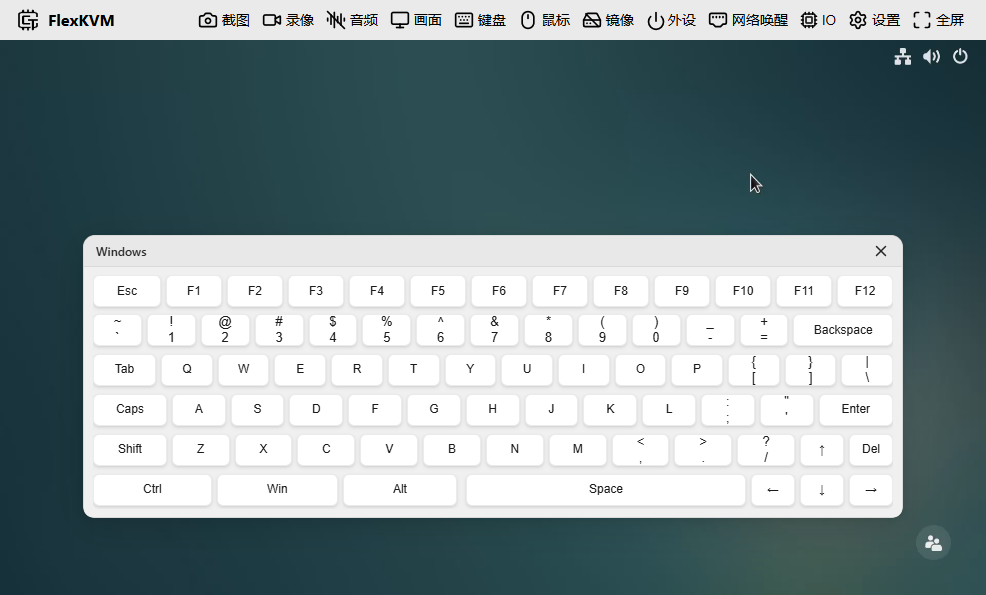
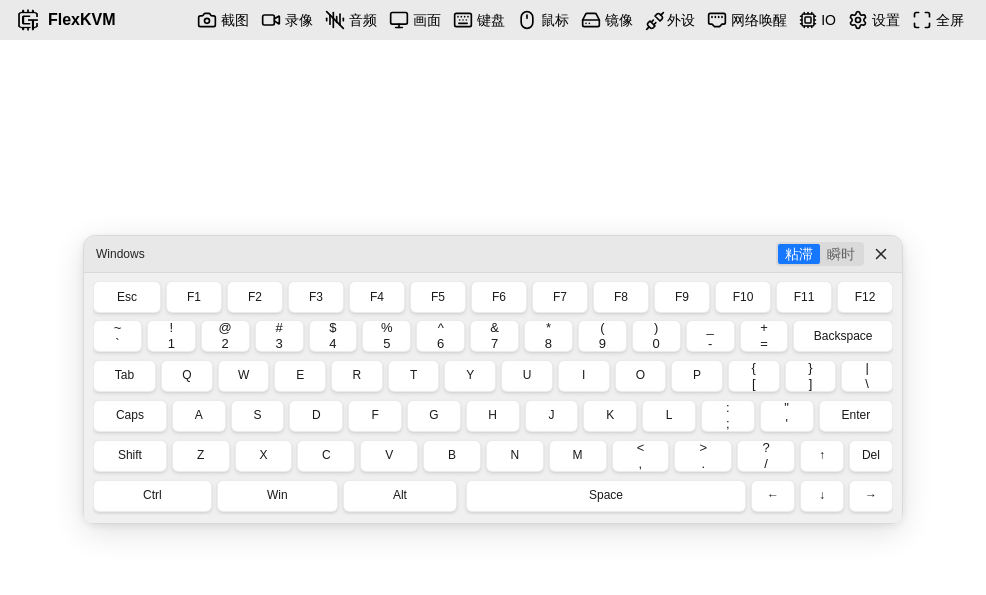
docs(remote): 虚拟键盘补修饰键粘滞/瞬时模式说明
v0.2.1 起修饰键不再固定为切换式，标题栏新增「粘滞 / 瞬时」分段控件：
粘滞保持原点一下锁定、再点一下松开；瞬时按住生效、松手释放。

原页只写「切换式」，用户在瞬时模式下找不到松手释放的说明，也无法
区分两种模式各适合什么场景，故改为对照表 + 各模式的用法说明。

配图同步换成含分段控件的实机截图（986x595，无损 WebP）。

diff --git a/Docs/docs/guide/remote/keyboard.en.md b/Docs/docs/guide/remote/keyboard.en.md
@@ -84,13 +84,24 @@ Opens a virtual keyboard overlay on the display — click with your mouse to typ
 
 ![Virtual keyboard](./images/keyboard/keyboard_float.webp)
 
-**Modifier keys** (Ctrl, Alt, Shift, Win) are toggle-style — click once to hold (turns dark), click again to release (turns light). Multiple modifiers can be held simultaneously.
+**Modifier keys** (Ctrl, Alt, Shift, Win) have two press modes, switched at the right of the title bar:
 
-Example: Click **Ctrl** (dark) → click **A** → sends Ctrl+A → Ctrl stays held for more combos → click **Ctrl** again (light, released).
+| Mode | Behavior | Best for |
+|------|----------|----------|
+| Sticky (default) | Click once to hold (turns dark), click again to release (turns light) | Touch screens; combos like Ctrl then C |
+| Momentary | Held while pressed, released on key-up like ordinary keys | Users used to a physical keyboard |
+
+Sticky mode holds multiple modifiers at once. Example: Click **Ctrl** (dark) → click **A** → sends Ctrl+A → Ctrl stays held for more combos → click **Ctrl** again (light, released).
+
+In Momentary mode, hold a modifier and click other keys; releasing the modifier releases it.
 
 **Regular keys**: Press to hold, release to let go.
 
+> Switching modes releases any held modifiers, so a latched Ctrl cannot leak into the other mode.
+
 > When closing the virtual keyboard or switching pages, all held keys are automatically released — no stuck keys.
+
+> The mode is stored in the browser, so it resets to Sticky in another browser or after clearing site data.
 
 ### Esc Mapping
 

diff --git a/Docs/docs/guide/remote/keyboard.md b/Docs/docs/guide/remote/keyboard.md
@@ -84,13 +84,24 @@
 
 ![虚拟键盘](./images/keyboard/keyboard_float.webp)
 
-**修饰键**（Ctrl、Alt、Shift、Win）是切换式——点一下按住（变深色），再点一下松开（变浅色）。可同时按住多个。
+**修饰键**（Ctrl、Alt、Shift、Win）的按下方式在标题栏右侧切换，共两种：
 
-例如：点 **Ctrl**（深色）→ 点 **A** → 发送 Ctrl+A → Ctrl 仍然按住，可继续组合 → 再点 **Ctrl**（浅色，松开）。
+| 模式 | 行为 | 适用场景 |
+|------|------|----------|
+| 粘滞（默认） | 点一下按住（变深色），再点一下松开（变浅色） | 触屏；先点 Ctrl 再点 C 的组合 |
+| 瞬时 | 按住生效，松手释放，与普通键一致 | 习惯物理键盘手感 |
+
+粘滞模式可同时按住多个修饰键。例如：点 **Ctrl**（深色）→ 点 **A** → 发送 Ctrl+A → Ctrl 仍然按住，可继续组合 → 再点 **Ctrl**（浅色，松开）。
+
+瞬时模式下按住修饰键再点其他键，松开修饰键即释放。
 
 **普通键**：按下持续按住，松手释放。
 
+> 切换模式时已按住的修饰键自动释放，粘住的 Ctrl 不会被带进另一种模式。
+
 > 关虚拟键盘或切页面时所有按键自动释放，不会卡键。
+
+> 模式偏好保存在浏览器本地，换浏览器或清除站点数据后回到粘滞。
 
 ### Esc 映射
 
